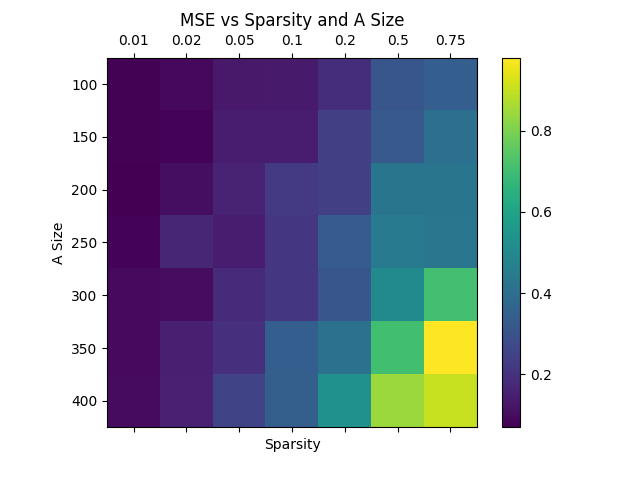
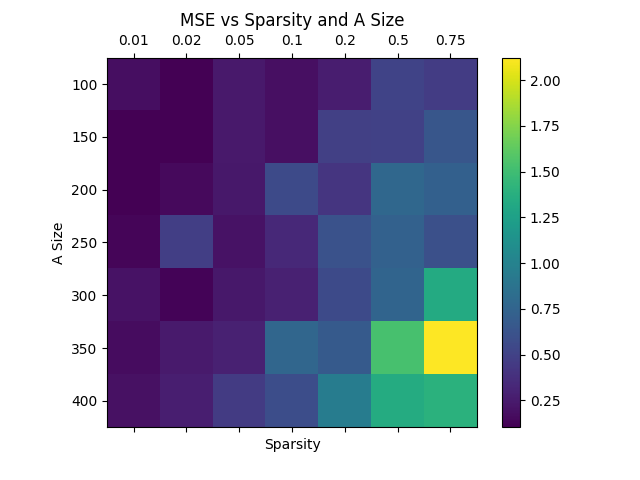
Fixed_mse_graphs

diff --git a/initial_simulations.py b/initial_simulations.py
@@ -14,7 +14,7 @@ q = 1
 z_mean = 0
 sparsity_arr = [0.01, 0.02, 0.05, 0.1, 0.2, 0.5, 0.75]
 A_size_arr = [100, 150, 200, 250, 300, 350, 400]
-sigma_arr = [1]
+sigma_arr = [1, 2, 3, 4]
 
 
 def plot_mse(mse: List[Any], file_name) -> None:
@@ -34,7 +34,7 @@ def plot_mse(mse: List[Any], file_name) -> None:
     plt.savefig(file_name)
 
 
-def simulate() -> List[Any]:
+def simulate(sigma) -> List[Any]:
     mse_arr = []
 
     for i in range(len(A_size_arr)):
@@ -47,7 +47,7 @@ def simulate() -> List[Any]:
             num_non_zero = int(sparsity * x_size)
             non_zero_indices = np.random.choice(x_size, num_non_zero, replace=False)
             x_true[non_zero_indices] = np.random.uniform(1, 1000, num_non_zero)
-            z_stddev = sigma_arr[0]
+            z_stddev = sigma
             z_size = y_size
             z = np.random.normal(z_mean, z_stddev, z_size)
             y = [np.dot(A[i], x_true)*(1+q)**(z[i]) for i in range(y_size)]
@@ -63,7 +63,7 @@ def simulate() -> List[Any]:
     return mse_arr
 
 
-def simulate_without_corrections() -> List[Any]:
+def simulate_without_corrections(sigma) -> List[Any]:
     mse_arr = []
 
     for i in range(len(A_size_arr)):
@@ -76,7 +76,7 @@ def simulate_without_corrections() -> List[Any]:
             num_non_zero = int(sparsity * x_size)
             non_zero_indices = np.random.choice(x_size, num_non_zero, replace=False)
             x_true[non_zero_indices] = np.random.uniform(1, 1000, num_non_zero)
-            z_stddev = sigma_arr[0]
+            z_stddev = sigma
             z_size = y_size
             z = np.random.normal(z_mean, z_stddev, z_size)
             y = [np.dot(A[i], x_true)*(1+q)**(z[i]) for i in range(y_size)]
@@ -93,8 +93,9 @@ def simulate_without_corrections() -> List[Any]:
 
 if __name__ == "__main__":
     print("Hi")
-    mse = simulate()
-    plot_mse(mse, "initial_sims_with_correction.png")
-    mse = simulate_without_corrections()
-    plot_mse(mse, "initial_sims_without_correction.png")
+    for sigma in sigma_arr:
+        mse = simulate(sigma)
+        plot_mse(mse, f"initial_sims_with_correction_{sigma}.png")
+        mse = simulate_without_corrections(sigma)
+        plot_mse(mse, f"initial_sims_without_correction_{sigma}.png")
 
